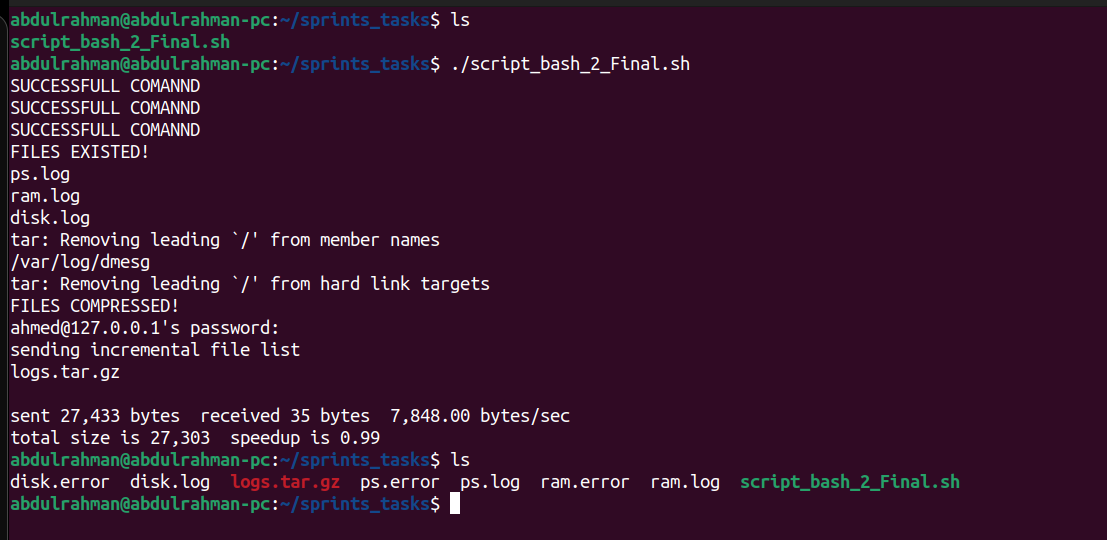
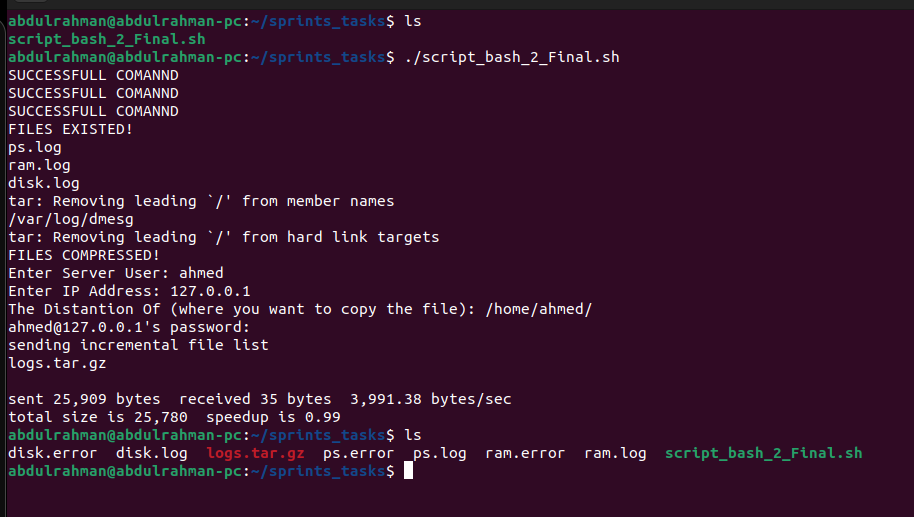
final updates bash 2

Changed region(s): [[0.0, 0.0, 0.674, 0.7118], [0.0, 0.7427, 0.9497, 0.9594]]

diff --git a/sprint_5/Bash_2/README.md b/sprint_5/Bash_2/README.md
@@ -3,10 +3,12 @@
   
     #!/bin/bash
 
-    CLIENT_USER=abdulrahman
-    SERVER_USER=ahmed
-    IP=127.0.0.1
-    SERVER_HOME_DIR=/home/$SERVER_USER
+
+    function ServerCredintails(){
+    read -p "Enter Server User: " SERVER_USER
+    read -p "Enter IP Address: " IP
+    read -p "The Distantion Of (where you want to copy the file): " SERVER_DIR 
+    }
 
     function CheckExitCode(){
     if (($?==0));then
@@ -27,19 +29,23 @@
     }
 
     function CreateLogs(){
-    ps -f -u $CLIENT_USER > ./ps.log 2> ./ps.error
+    ps -f -u $USER > ./ps.log 2> ./ps.error
     CheckExitCode ps.error
 
     free > ./ram.log 2> ./ram.error
     CheckExitCode ram.error
 
-    df -h > ./disk.log 2> ./disk.error
+
+    df -h | awk '{printf "%-10s%-20s\n", substr($0, 1 ,10), substr($0, 33, 50)}' > ./disk.log 2> ./disk.error
     CheckExitCode disk.error
     CompressFiles
     }
 
     CreateLogs
-    rsync -avz --ignore-existing logs.tar.gz ahmed@127.0.0.1:$SERVER_HOME_DIR
+    ServerCredintails
+    rsync -avzp --ignore-existing logs.tar.gz ahmed@127.0.0.1:$SERVER_HOME_DIR
+
+
 
 ### **Screenshots:**  
 - **Server before running script**  
